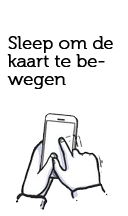
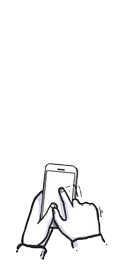
...

Changed region(s): [[0.125, 0.5, 0.8438, 1.0], [0.0625, 0.1667, 0.8125, 0.4167], [0.7188, 0.1667, 0.9062, 0.25]]

diff --git a/www/main.html b/www/main.html
@@ -27,7 +27,9 @@
         <title>Regenradar</title>
     </head>
     <body style="height: 100%; width: 100%; margin: 0;">
-        <div id="help"></div>
+        <div id="help" onclick="closeHelp()">
+            <div id="help1"><img src="img/help/gestures.gif"></div>
+        </div>
         <div id="map"></div>
         <div id="slider">
             <div id="progress-bar"></div>

diff --git a/www/css/style.css b/www/css/style.css
@@ -4,15 +4,19 @@
 }
 
 #help{
+  display: none;
   width: 100%;
   height: 100%;
   position: absolute;
-  top: 0;
-  left: 0;
-  border: 1px solid red;
-  display: none;
-  color: #ccc;
-  opacity: .7;
+  top: 0px;
+  left: 0px;
+  background-color: rgba(0,0,0,0.9);
+  z-index: 500000
+}
+#help1 {
+  position: absolute;
+  bottom: 40%;
+  right: 40%;
 }
 
 @font-face {

diff --git a/www/js/script.js b/www/js/script.js
@@ -11,6 +11,11 @@
             helpDiv.style.display = 'block';
             return true;
         }
+        function closeHelp() {
+            var helpDiv = document.getElementById('help');
+            helpDiv.style.display = 'none';
+            return true;
+        }
 
         function init () {
             if (window.cordova) {
